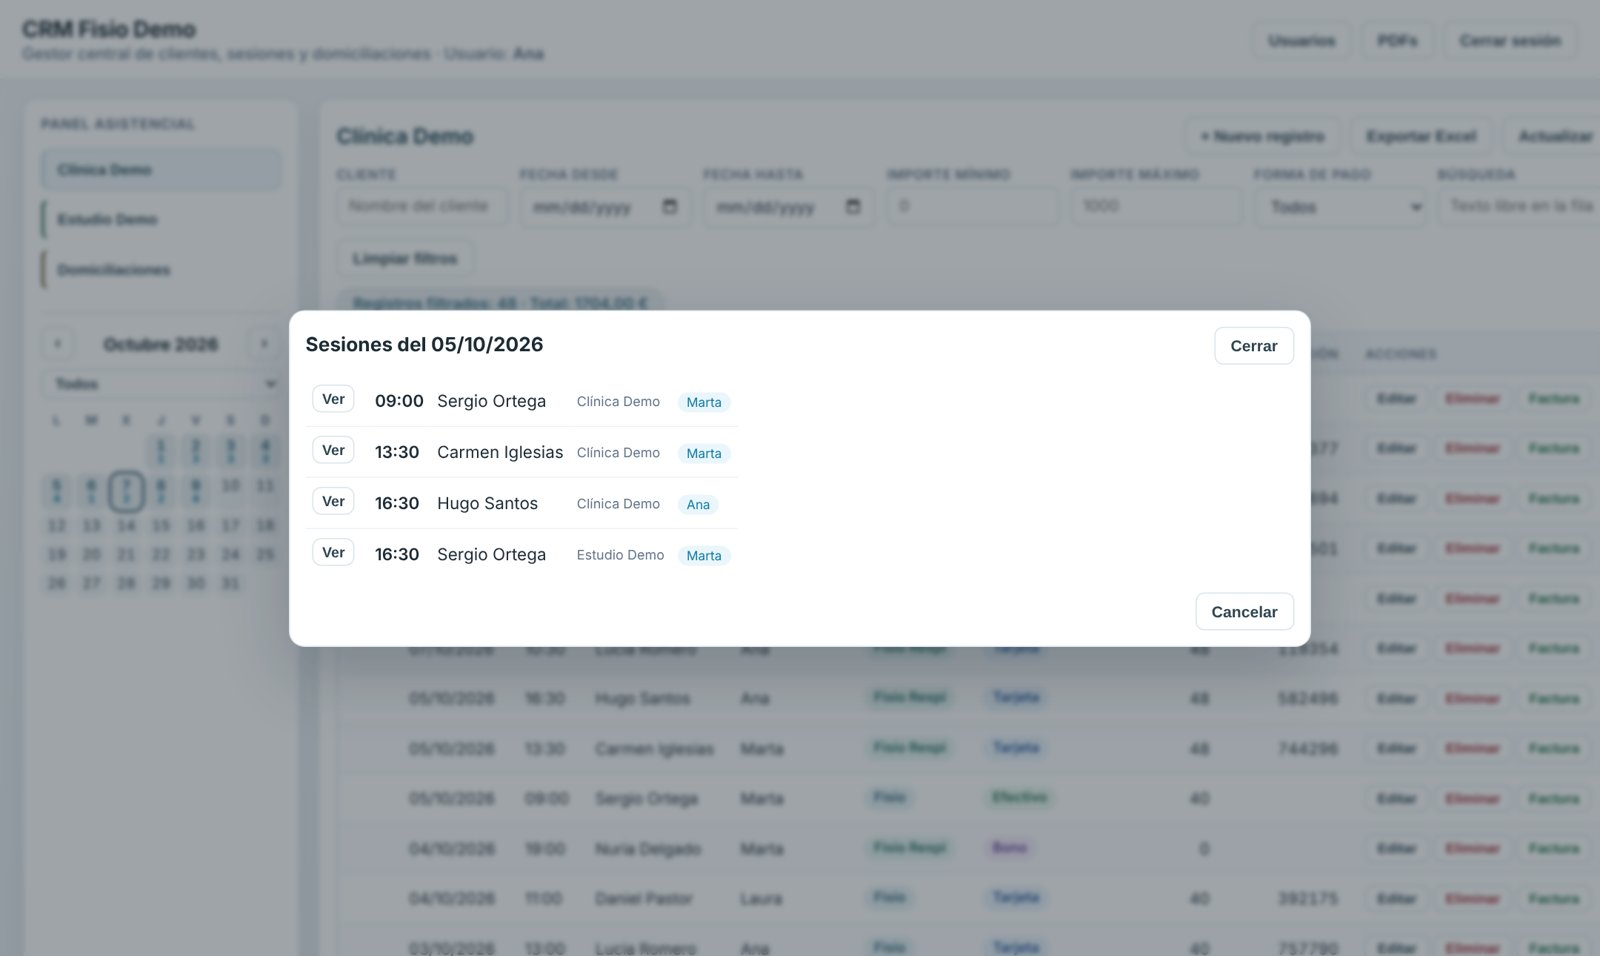
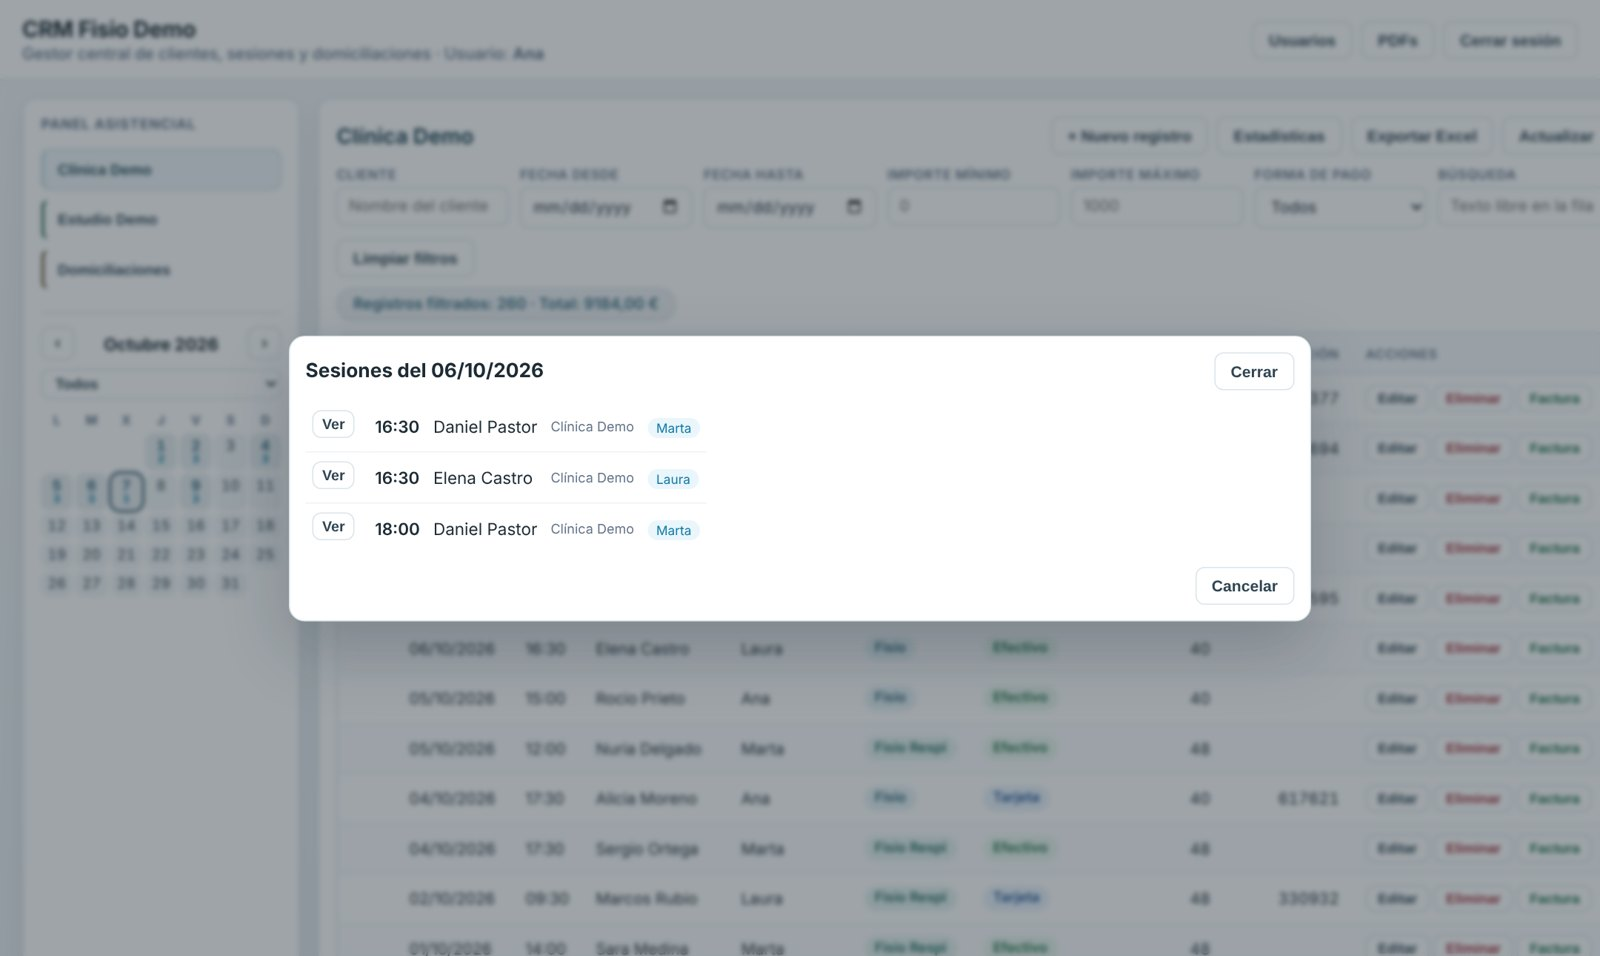
Panel de estadísticas con gráficos y más histórico de demo
- Botón Estadísticas: KPIs, ingresos por mes, sesiones por profesional,
  ingresos por servicio y reparto por forma de pago (SVG, sin librerías)
- Calculado sobre los registros filtrados
- demoSeed genera seis meses de datos ficticios
- Capturas actualizadas

Claude-Session: https://claude.ai/code/session_01EiwNY3qGHv1yNy512FtoC5

diff --git a/src/client.html b/src/client.html
@@ -5,6 +5,7 @@
   const refreshBtn = document.getElementById('btn-refresh');
   const newRowBtn = document.getElementById('btn-new-row');
   const exportExcelBtn = document.getElementById('btn-export-excel');
+  const statsBtn = document.getElementById('btn-stats');
   const tableEl = document.getElementById('tabla-modulo');
   const errorBoxEl = document.getElementById('error-box');
   const duplicatesBoxEl = document.getElementById('duplicates-box');
@@ -137,6 +138,7 @@
     modalOverlayEl.hidden = true;
     modalMode = null;
     modalCardEl.classList.remove('cal-modal');
+    modalCardEl.classList.remove('stats-modal');
     editingRowIndex = -1;
     currentMergeFiles = [];
     currentConvertImages = [];
@@ -2821,6 +2823,159 @@ var COMBO_PRESETS = [
     }
     openCreateModal();
   });
+
+  var STATS_MESES = ['Ene', 'Feb', 'Mar', 'Abr', 'May', 'Jun', 'Jul', 'Ago', 'Sep', 'Oct', 'Nov', 'Dic'];
+  var STATS_PAGO_COLORES = { 'Tarjeta': '#2f6fbf', 'Efectivo': '#2e9a68', 'Bono': '#8857c4' };
+
+  function statsFormatoEuros(n) {
+    return n.toLocaleString('es-ES', { minimumFractionDigits: 0, maximumFractionDigits: 0 }) + ' €';
+  }
+
+  function statsCalcular() {
+    var idxFecha = getHeaderIndexByPattern(/^fecha_de_la_sesion$|^fecha_sesion$|^fecha$/);
+    var idxImporte = getHeaderIndexByPattern(/^cantidad\*?$|^importe_mensual$/);
+    var idxFisio = getHeaderIndexByPattern(/^fisio_de_sesion\*?$/);
+    var idxServicio = getHeaderIndexByPattern(/^que_paga\*?$|^servicio$/);
+    var idxPago = getHeaderIndexByPattern(/^como_paga\*?$/);
+    var porMes = {}, porFisio = {}, porServicio = {}, porPago = {};
+    var total = 0, sesiones = 0;
+
+    filteredRows.forEach(function(wrapper) {
+      var row = wrapper.data;
+      var importe = idxImporte >= 0 ? (parseNumber(row[idxImporte]) || 0) : 0;
+      total += importe;
+      sesiones += 1;
+      if (idxFecha >= 0) {
+        var partes = String(row[idxFecha] || '').split(/[\/\s]/);
+        if (partes.length >= 3) {
+          var clave = partes[2] + '-' + partes[1];
+          porMes[clave] = (porMes[clave] || 0) + importe;
+        }
+      }
+      if (idxFisio >= 0 && row[idxFisio]) {
+        porFisio[row[idxFisio]] = (porFisio[row[idxFisio]] || 0) + 1;
+      }
+      if (idxServicio >= 0 && row[idxServicio]) {
+        porServicio[row[idxServicio]] = (porServicio[row[idxServicio]] || 0) + importe;
+      }
+      if (idxPago >= 0 && row[idxPago]) {
+        porPago[row[idxPago]] = (porPago[row[idxPago]] || 0) + 1;
+      }
+    });
+
+    var meses = Object.keys(porMes).sort().slice(-6).map(function(k) {
+      var p = k.split('-');
+      return { etiqueta: STATS_MESES[Number(p[1]) - 1] + ' ' + p[0].slice(2), valor: porMes[k] };
+    });
+    function ordenar(obj) {
+      return Object.keys(obj).map(function(k) { return { etiqueta: k, valor: obj[k] }; })
+        .sort(function(a, b) { return b.valor - a.valor; });
+    }
+    return {
+      total: total,
+      sesiones: sesiones,
+      ticket: sesiones ? total / sesiones : 0,
+      meses: meses,
+      fisios: ordenar(porFisio),
+      servicios: ordenar(porServicio),
+      pagos: ordenar(porPago)
+    };
+  }
+
+  function statsBarrasVerticales(datos, formato) {
+    if (!datos.length) {
+      return '<p class="stats-vacio">Sin fechas en los registros filtrados.</p>';
+    }
+    var w = 900, h = 230, mIzq = 8, mAbajo = 26, mArriba = 22;
+    var max = Math.max.apply(null, datos.map(function(d) { return d.valor; })) || 1;
+    var paso = (w - mIzq * 2) / datos.length;
+    var ancho = Math.min(72, paso * 0.5);
+    var svg = '<svg class="stats-svg" viewBox="0 0 ' + w + ' ' + h + '" role="img" aria-label="Ingresos por mes">';
+    [0.5, 1].forEach(function(f) {
+      var y = mArriba + (h - mArriba - mAbajo) * (1 - f);
+      svg += '<line x1="0" x2="' + w + '" y1="' + y + '" y2="' + y + '" class="stats-grid"/>';
+    });
+    datos.forEach(function(d, i) {
+      var alto = Math.max(2, (h - mArriba - mAbajo) * d.valor / max);
+      var x = mIzq + paso * i + (paso - ancho) / 2;
+      var y = h - mAbajo - alto;
+      var ultimo = i === datos.length - 1;
+      svg += '<g class="stats-mark"><title>' + escapeHtml(d.etiqueta + ': ' + formato(d.valor)) + '</title>';
+      svg += '<rect x="' + (x - 6) + '" y="' + mArriba + '" width="' + (ancho + 12) + '" height="' + (h - mArriba - mAbajo) + '" fill="transparent"/>';
+      svg += '<path class="stats-bar' + (ultimo ? ' is-actual' : '') + '" d="M' + x + ',' + (y + alto) + 'V' + (y + 4) + 'Q' + x + ',' + y + ' ' + (x + 4) + ',' + y + 'H' + (x + ancho - 4) + 'Q' + (x + ancho) + ',' + y + ' ' + (x + ancho) + ',' + (y + 4) + 'V' + (y + alto) + 'Z"/>';
+      svg += '<text x="' + (x + ancho / 2) + '" y="' + (y - 6) + '" class="stats-valor" text-anchor="middle">' + escapeHtml(formato(d.valor)) + '</text>';
+      svg += '<text x="' + (x + ancho / 2) + '" y="' + (h - 8) + '" class="stats-eje" text-anchor="middle">' + escapeHtml(d.etiqueta) + '</text></g>';
+    });
+    svg += '<line x1="0" x2="' + w + '" y1="' + (h - mAbajo) + '" y2="' + (h - mAbajo) + '" class="stats-base"/></svg>';
+    return svg;
+  }
+
+  function statsBarrasHorizontales(datos, formato) {
+    if (!datos.length) {
+      return '<p class="stats-vacio">Sin datos.</p>';
+    }
+    var max = Math.max.apply(null, datos.map(function(d) { return d.valor; })) || 1;
+    return '<div class="stats-hbars">' + datos.map(function(d) {
+      var pct = Math.max(2, 100 * d.valor / max);
+      return '<div class="stats-hrow" title="' + escapeHtml(d.etiqueta + ': ' + formato(d.valor)) + '">' +
+        '<span class="stats-hlabel">' + escapeHtml(d.etiqueta) + '</span>' +
+        '<span class="stats-htrack"><span class="stats-hbar" style="width:' + pct.toFixed(1) + '%"></span></span>' +
+        '<span class="stats-hvalor">' + escapeHtml(formato(d.valor)) + '</span></div>';
+    }).join('') + '</div>';
+  }
+
+  function statsReparto(datos) {
+    var total = datos.reduce(function(a, d) { return a + d.valor; }, 0);
+    if (!total) {
+      return '<p class="stats-vacio">Sin datos.</p>';
+    }
+    var orden = ['Tarjeta', 'Efectivo', 'Bono'];
+    var lista = datos.slice().sort(function(a, b) {
+      var ia = orden.indexOf(a.etiqueta), ib = orden.indexOf(b.etiqueta);
+      return (ia < 0 ? 99 : ia) - (ib < 0 ? 99 : ib);
+    });
+    var barra = '<div class="stats-stack" role="img" aria-label="Reparto por forma de pago">';
+    var leyenda = '<div class="stats-leyenda">';
+    lista.forEach(function(d) {
+      var pct = 100 * d.valor / total;
+      var color = STATS_PAGO_COLORES[d.etiqueta] || '#7b8794';
+      barra += '<span class="stats-seg" style="width:' + pct.toFixed(2) + '%;background:' + color + '" title="' + escapeHtml(d.etiqueta + ': ' + d.valor + ' (' + Math.round(pct) + '%)') + '"></span>';
+      leyenda += '<span class="stats-key"><i style="background:' + color + '"></i>' + escapeHtml(d.etiqueta) + ' <b>' + Math.round(pct) + '%</b> <small>' + d.valor + '</small></span>';
+    });
+    return barra + '</div>' + leyenda + '</div>';
+  }
+
+  function abrirEstadisticas() {
+    var st = statsCalcular();
+    var esDomi = currentModuleId === 'domiciliaciones';
+    var html = '<p class="stats-nota">Calculado sobre los ' + st.sesiones + ' registros visibles. Si cambias los filtros, las estadísticas cambian con ellos.</p>';
+    html += '<div class="stats-kpis">';
+    html += '<div class="stats-kpi"><span>' + (esDomi ? 'Total mensual' : 'Ingresos') + '</span><b>' + statsFormatoEuros(st.total) + '</b></div>';
+    html += '<div class="stats-kpi"><span>' + (esDomi ? 'Domiciliaciones' : 'Registros') + '</span><b>' + st.sesiones + '</b></div>';
+    html += '<div class="stats-kpi"><span>' + (esDomi ? 'Cuota media' : 'Ticket medio') + '</span><b>' + statsFormatoEuros(st.ticket) + '</b></div>';
+    html += '</div>';
+    if (!esDomi) {
+      html += '<section class="stats-card stats-wide"><h4>Ingresos por mes <small class="stats-sub">· el último es el mes en curso</small></h4>' + statsBarrasVerticales(st.meses, statsFormatoEuros) + '</section>';
+    }
+    html += '<div class="stats-grid2">';
+    if (st.fisios.length) {
+      html += '<section class="stats-card"><h4>Sesiones por profesional</h4>' + statsBarrasHorizontales(st.fisios, function(v) { return String(v); }) + '</section>';
+    }
+    html += '<section class="stats-card"><h4>Ingresos por servicio</h4>' + statsBarrasHorizontales(st.servicios, statsFormatoEuros) + '</section>';
+    if (st.pagos.length) {
+      html += '<section class="stats-card"><h4>Forma de pago</h4>' + statsReparto(st.pagos) + '</section>';
+    }
+    html += '</div>';
+
+    openModal('Estadísticas · ' + (moduleTitleEl.textContent || ''));
+    modalCardEl.classList.add('stats-modal');
+    modalSaveEl.hidden = true;
+    modalBodyEl.innerHTML = html;
+  }
+
+  if (statsBtn) {
+    statsBtn.addEventListener('click', abrirEstadisticas);
+  }
 
   exportExcelBtn.addEventListener('click', function() {
     openExportColumnsModal();

diff --git a/src/styles.html b/src/styles.html
@@ -1423,4 +1423,39 @@ body {
 .calendar-head .btn,
 .menu .calendar-head button { width: 30px; height: 30px; padding: 0; margin: 0; flex: 0 0 30px; display: inline-flex; align-items: center; justify-content: center; border: 1px solid var(--line); border-left: 1px solid var(--line); border-radius: 8px; background: var(--surface); font-size: 1rem; line-height: 1; }
 .calendar-head h3 { flex: 1; text-align: center; }
+
+/* ===== Estadisticas ===== */
+.modal-card.stats-modal { width: min(980px, 96vw); max-height: 92vh; overflow: auto; }
+.stats-nota { margin: 0 0 14px; color: var(--muted); font-size: 0.85rem; }
+.stats-kpis { display: grid; grid-template-columns: repeat(3, 1fr); gap: 12px; margin-bottom: 14px; }
+.stats-kpi { border: 1px solid var(--line); border-radius: 12px; padding: 12px 14px; background: var(--surface); }
+.stats-kpi span { display: block; font-size: 0.74rem; font-weight: 600; text-transform: uppercase; letter-spacing: 0.05em; color: var(--muted); }
+.stats-kpi b { display: block; margin-top: 4px; font-size: 1.5rem; font-weight: 700; color: var(--ink); font-variant-numeric: tabular-nums; }
+.stats-card { border: 1px solid var(--line); border-radius: 12px; padding: 14px 16px; background: var(--surface); }
+.stats-card h4 { margin: 0 0 12px; font-size: 0.9rem; font-weight: 600; color: var(--ink); }
+.stats-wide { margin-bottom: 12px; }
+.stats-grid2 { display: grid; grid-template-columns: repeat(auto-fit, minmax(260px, 1fr)); gap: 12px; }
+.stats-svg { width: 100%; height: auto; display: block; overflow: visible; }
+.stats-grid { stroke: #e8eef2; stroke-width: 1; }
+.stats-base { stroke: #cfdae1; stroke-width: 1; }
+.stats-bar { fill: color-mix(in srgb, var(--active) 45%, white); }
+.stats-bar.is-actual { fill: var(--active); }
+.stats-mark:hover .stats-bar { fill: var(--active); }
+.stats-valor { font-size: 11px; font-weight: 600; fill: var(--ink); font-variant-numeric: tabular-nums; }
+.stats-eje { font-size: 11px; fill: var(--muted); }
+.stats-hbars { display: grid; gap: 8px; }
+.stats-hrow { display: grid; grid-template-columns: 92px 1fr auto; align-items: center; gap: 10px; font-size: 0.85rem; }
+.stats-hlabel { color: #33495a; white-space: nowrap; overflow: hidden; text-overflow: ellipsis; }
+.stats-htrack { height: 12px; border-radius: 4px; background: #eef3f6; overflow: hidden; }
+.stats-hbar { display: block; height: 100%; border-radius: 0 4px 4px 0; background: var(--active); }
+.stats-hvalor { font-weight: 600; color: var(--ink); font-variant-numeric: tabular-nums; min-width: 52px; text-align: right; }
+.stats-stack { display: flex; height: 16px; border-radius: 4px; overflow: hidden; gap: 2px; background: var(--surface); }
+.stats-seg { display: block; height: 100%; }
+.stats-leyenda { display: flex; flex-wrap: wrap; gap: 6px 16px; margin-top: 12px; font-size: 0.85rem; color: #33495a; }
+.stats-key { display: inline-flex; align-items: center; gap: 6px; }
+.stats-key i { width: 10px; height: 10px; border-radius: 3px; display: inline-block; }
+.stats-key small { color: var(--muted); }
+.stats-vacio { color: var(--muted); font-size: 0.85rem; margin: 0; }
+@media (max-width: 640px) { .stats-kpis { grid-template-columns: 1fr; } }
+.stats-sub { font-weight: 400; color: var(--muted); font-size: 0.8rem; }
 </style>

diff --git a/src/demoSeed.js b/src/demoSeed.js
@@ -25,8 +25,8 @@ const DEMO_HEADERS_DOMICILIACIONES = [
 function crearDatosDemo() {
   const azar = generadorDemo(20240901);
   const ids = {
-    clinica: crearHojaDemo('CRM Demo - Clinica', DEMO_HEADERS_REGISTROS, filasRegistrosDemo(azar, 60, DEMO_SERVICIOS.slice(0, 2))),
-    estudio: crearHojaDemo('CRM Demo - Estudio', DEMO_HEADERS_REGISTROS, filasRegistrosDemo(azar, 40, DEMO_SERVICIOS.slice(2))),
+    clinica: crearHojaDemo('CRM Demo - Clinica', DEMO_HEADERS_REGISTROS, filasRegistrosDemo(azar, 260, DEMO_SERVICIOS.slice(0, 2))),
+    estudio: crearHojaDemo('CRM Demo - Estudio', DEMO_HEADERS_REGISTROS, filasRegistrosDemo(azar, 180, DEMO_SERVICIOS.slice(2))),
     domiciliaciones: crearHojaDemo('CRM Demo - Domiciliaciones', DEMO_HEADERS_DOMICILIACIONES, filasDomiciliacionesDemo(azar, 12))
   };
   Logger.log('Pega estos IDs en SHEETS (src/Config.js):\n' + JSON.stringify(ids, null, 2));
@@ -49,7 +49,7 @@ function filasRegistrosDemo(azar, total, servicios) {
   const filas = [];
   const hoy = new Date();
   for (let i = 0; i < total; i++) {
-    const fecha = new Date(hoy.getFullYear(), hoy.getMonth(), hoy.getDate() - Math.floor(azar() * 45));
+    const fecha = new Date(hoy.getFullYear(), hoy.getMonth(), hoy.getDate() - Math.floor(azar() * 180));
     const hora = pad2Num(9 + Math.floor(azar() * 11)) + ':' + (azar() < 0.5 ? '00' : '30');
     const servicio = elegirDemo(azar, servicios);
     const fisio = elegirDemo(azar, DEMO_FISIOS);

diff --git a/src/index.html b/src/index.html
@@ -63,6 +63,7 @@
             <h2 id="current-module">Selecciona un modulo</h2>
             <div class="toolbar-actions">
               <button id="btn-new-row" class="btn secondary" type="button" title="Anade una fila nueva al modulo actual. Al abrir el formulario podras usar los accesos de combinaciones frecuentes para rellenar los principales campos de un solo toque.">+ Nuevo registro</button>
+              <button id="btn-stats" class="btn secondary" type="button">Estadísticas</button>
               <button id="btn-export-excel" class="btn secondary" type="button">Exportar Excel</button>
               <button id="btn-refresh" class="btn secondary" type="button">Actualizar</button>
             </div>

diff --git a/README.md b/README.md
@@ -46,6 +46,7 @@ web encima de esas hojas que valida, controla accesos y deja rastro de cada camb
 - **Detección de duplicados** al guardar y limpieza en bloque.
 - **Plantillas rápidas** (fisio, pilates, bonos) que rellenan el formulario en un clic.
 - **Calendario de sesiones** en el panel lateral: cada día muestra cuántas sesiones hay y, al pulsarlo, el detalle con hora, cliente, centro y profesional. Se puede filtrar por centro.
+- **Estadísticas** del módulo: ingresos, registros y ticket medio; ingresos por mes; sesiones por profesional; ingresos por servicio y reparto por forma de pago. Se calculan sobre los registros filtrados y se dibujan en SVG, sin librerías externas.
 - **Facturas en PDF** generadas desde un registro, con IVA e IRPF.
 - **Exportación a Excel** de la vista filtrada, con totales.
 - **Auditoría:** cada alta, edición o borrado queda en una hoja `Auditoria` con los datos antes y después.
@@ -63,6 +64,10 @@ Interfaz de la aplicación con los datos ficticios de la demo.
 **Alta de registro con plantillas rápidas y validaciones**
 
 ![Nuevo registro](docs/screenshots/nuevo-registro.jpg)
+
+**Estadísticas: ingresos por mes, sesiones por profesional, ingresos por servicio y forma de pago**
+
+![Estadísticas](docs/screenshots/estadisticas.jpg)
 
 **Calendario de sesiones: cada día muestra cuántas hay y, al pulsarlo, el detalle por profesional**
 
